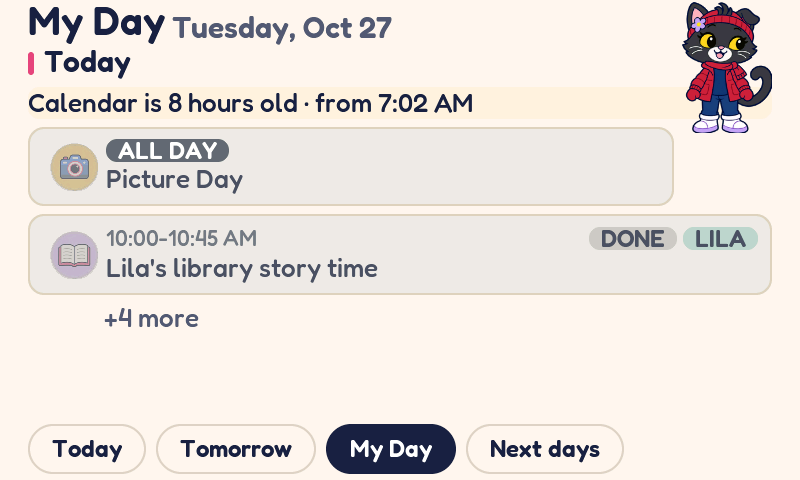
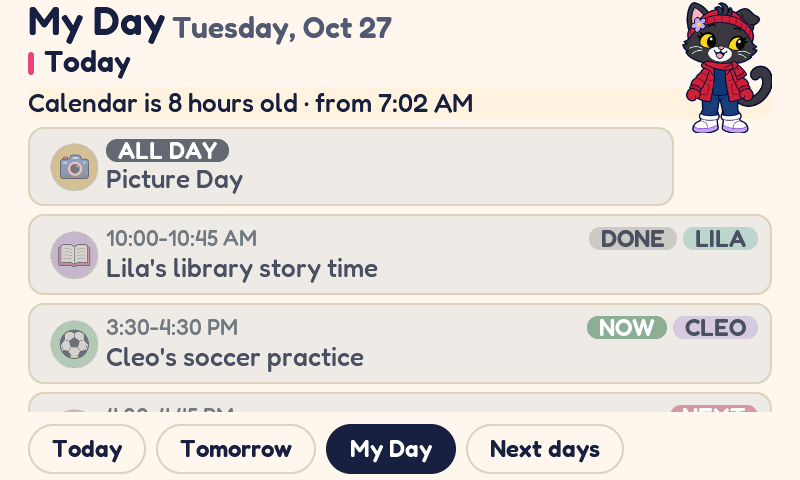
iter-37: sim gate meets the scrolling list (clipped tab test, width-only containment in the scroller), scrolled stress render, checks updated

Changed region(s): [[0.0312, 0.625, 0.9688, 0.875]]

diff --git a/sim/check_renders.py b/sim/check_renders.py
@@ -1346,15 +1346,15 @@ def main():
     md = dump("40_myday")
     check(md["myday_state"] == "events",
           f"40_myday: populated state (myday_state={md['myday_state']})")
-    # Iter-35: the flex cards size to content, so the six-event
-    # fixture day no longer fits the list beside Pippa: three of
-    # today's cards show, the fourth and both of tomorrow's fold
-    # into the "+3 more" line (the row strings below still pin
-    # every event's text, folded or not).
-    check(md["myday_today_n"] == "3" and md["myday_tom_n"] == "0",
-          f"40_myday: 3 rows today, tomorrow folded ({md['myday_today_n']}/{md['myday_tom_n']})")
-    check(md["myday_more_today"] == "1" and md["myday_more_tom"] == "2",
-          f"40_myday: the fold counts 1 today, 2 tomorrow ({md['myday_more_today']}/{md['myday_more_tom']})")
+    # Iter-37: the list scrolls, so every pooled row has a card:
+    # all four of today's events and both of tomorrow's stand in
+    # the column (the viewport shows the first three and a clip
+    # of the fourth), and nothing folds away (the row strings
+    # below pin every event's text).
+    check(md["myday_today_n"] == "4" and md["myday_tom_n"] == "2",
+          f"40_myday: 4 rows today, 2 tomorrow, all with cards ({md['myday_today_n']}/{md['myday_tom_n']})")
+    check(md["myday_more_today"] == "0" and md["myday_more_tom"] == "0",
+          f"40_myday: no row folds, the pool holds every row ({md['myday_more_today']}/{md['myday_more_tom']})")
     # Iter-15: the time column carries ranges (pickup time is half
     # the point) and all-day events read ALL DAY (the navy pill).
     check(md["myday_today0"] == "ALL DAY|Picture Day|",
@@ -1396,8 +1396,8 @@ def main():
           f"40_myday: LILA and CLEO name tags across the page ({md['myday_nametags']!r})")
     check(md["myday_dimmed"] == "",
           f"40_myday: no past rows dimmed in the morning ({md['myday_dimmed']!r})")
-    check(md["myday_icons"] == "camera,book,soccer",
-          f"40_myday: category icons of the visible rows ({md['myday_icons']})")
+    check(md["myday_icons"] == "camera,book,soccer,videocall,cupcake,piano",
+          f"40_myday: category icons of every row ({md['myday_icons']})")
     # Iter-35: the half-card form is gone (one card style
     # everywhere); the dump key stays and reads 0.
     check(md["myday_half"] == "0",
@@ -1425,17 +1425,17 @@ def main():
     # at 3:45), NEXT on the Grandma call; the never state has no
     # freshness footer at all, its body copy carries it.
     md43 = dump("43_myday_stale")
-    check(md43["myday_state"] == "events" and md43["myday_today_n"] == "2" and md43["myday_tom_n"] == "0",
-          f"43_myday_stale: populated data under the stale stamp, the banner eats a row (state={md43['myday_state']}, {md43['myday_today_n']}/{md43['myday_tom_n']})")
-    check(md43["myday_more_today"] == "2" and md43["myday_more_tom"] == "2",
-          f"43_myday_stale: the fold counts 2 and 2 under the banner ({md43['myday_more_today']}/{md43['myday_more_tom']})")
+    check(md43["myday_state"] == "events" and md43["myday_today_n"] == "4" and md43["myday_tom_n"] == "2",
+          f"43_myday_stale: populated data under the stale stamp, the banner pushes the rows down the scroll (state={md43['myday_state']}, {md43['myday_today_n']}/{md43['myday_tom_n']})")
+    check(md43["myday_more_today"] == "0" and md43["myday_more_tom"] == "0",
+          f"43_myday_stale: no row folds under the banner ({md43['myday_more_today']}/{md43['myday_more_tom']})")
     check(md43["myday_fresh"] == "Calendar is 8 hours old · from 7:02 AM",
           f"43_myday_stale: freshness line in its stale form, age spelled out ({md43['myday_fresh']})")
     check(md43["myday_nextup"] == "Video call with Grandma" and md43["myday_nowup"] == "Cleo's soccer practice"
           and md43["myday_done"] == "Lila's library story time" and md43["myday_dimmed"] == "Lila's library story time",
           f"43_myday_stale: Grandma next, soccer now, story time done (nextup={md43['myday_nextup']!r}, nowup={md43['myday_nowup']!r}, done={md43['myday_done']!r})")
-    check(md43["myday_icons"] == "camera,book" and md43["myday_half"] == "0",
-          f"43_myday_stale: the visible rows' icons under the stale stamp (icons={md43['myday_icons']}, half={md43['myday_half']})")
+    check(md43["myday_icons"] == "camera,book,soccer,videocall,cupcake,piano" and md43["myday_half"] == "0",
+          f"43_myday_stale: every row's icons under the stale stamp (icons={md43['myday_icons']}, half={md43['myday_half']})")
     md44 = dump("44_myday_never")
     check(md44["myday_state"] == "never",
           f"44_myday_never: configured but never loaded state (state={md44['myday_state']})")
@@ -1453,8 +1453,8 @@ def main():
           f"45_myday_late: story time DONE and dimmed as past (done={md45['myday_done']!r})")
     check(md45["myday_tom1"] == "4:00-4:30 PM|Cleo's piano lesson|",
           f"45_myday_late: tomorrow rows unchanged in the afternoon ({md45['myday_tom1']})")
-    check(md45["myday_icons"] == "camera,book,soccer" and md45["myday_half"] == "0",
-          f"45_myday_late: the visible rows' icons in the afternoon (icons={md45['myday_icons']}, half={md45['myday_half']})")
+    check(md45["myday_icons"] == "camera,book,soccer,videocall,cupcake,piano" and md45["myday_half"] == "0",
+          f"45_myday_late: every row's icons in the afternoon (icons={md45['myday_icons']}, half={md45['myday_half']})")
     # Iter-29: the fall-back weekend (clock Sat Oct 31 2026, 8:05 AM;
     # tomorrow is Sun Nov 1, when America/New_York repeats 1 AM).
     # The fixture's TZID times resolve through its VTIMEZONE block,
@@ -1462,10 +1462,10 @@ def main():
     # a fixed -4 reading would put the pancakes at 4:30 AM, a UTC
     # reading at 8:30 AM, and the owl walk on the wrong hour too.
     md46 = dump("46_myday_dst")
-    check(md46["myday_state"] == "events" and md46["myday_today_n"] == "2" and md46["myday_tom_n"] == "0",
-          f"46_myday_dst: 2 rows today, tomorrow's 3 folded over the fall-back (state={md46['myday_state']}, {md46['myday_today_n']}/{md46['myday_tom_n']})")
-    check(md46["myday_more_tom"] == "3" and md46["myday_icons"] == "star,videocall",
-          f"46_myday_dst: the fold counts tomorrow's 3 (more={md46['myday_more_tom']}, icons={md46['myday_icons']})")
+    check(md46["myday_state"] == "events" and md46["myday_today_n"] == "2" and md46["myday_tom_n"] == "3",
+          f"46_myday_dst: 2 rows today, tomorrow's 3 all have cards over the fall-back (state={md46['myday_state']}, {md46['myday_today_n']}/{md46['myday_tom_n']})")
+    check(md46["myday_more_tom"] == "0" and md46["myday_icons"] == "star,videocall,star,star,star",
+          f"46_myday_dst: no row folds, every row's icons (more={md46['myday_more_tom']}, icons={md46['myday_icons']})")
     check(md46["myday_today0"] == "10:00-11:00 AM|Pumpkin patch visit|",
           f"46_myday_dst: today's first row (today0={md46['myday_today0']!r})")
     check(md46["myday_today1"] == "1:00-1:45 PM|Video call with Grandpa|",
@@ -1485,13 +1485,13 @@ def main():
     # Iter-35: the stress and evening fixtures. Stress (9:20 AM):
     # six events today (an all-day, a DONE naming both girls with
     # a long street address in the feed, a NOW, a NEXT with a
-    # 38-char title), one tomorrow. Iter-36: the shorter
-    # full-width cards fit three, the rest fold.
+    # 38-char title), one tomorrow. Iter-37: all seven cards
+    # stand in the scrolling column.
     md47 = dump("47_myday_stress")
-    check(md47["myday_state"] == "events" and md47["myday_today_n"] == "3" and md47["myday_tom_n"] == "0",
-          f"47_myday_stress: populated, 3 cards shown of 7 (state={md47['myday_state']}, {md47['myday_today_n']}/{md47['myday_tom_n']})")
-    check(md47["myday_more_today"] == "3" and md47["myday_more_tom"] == "1",
-          f"47_myday_stress: the fold counts 3 today, 1 tomorrow ({md47['myday_more_today']}/{md47['myday_more_tom']})")
+    check(md47["myday_state"] == "events" and md47["myday_today_n"] == "6" and md47["myday_tom_n"] == "1",
+          f"47_myday_stress: populated, all 7 cards stand (state={md47['myday_state']}, {md47['myday_today_n']}/{md47['myday_tom_n']})")
+    check(md47["myday_more_today"] == "0" and md47["myday_more_tom"] == "0",
+          f"47_myday_stress: no row folds ({md47['myday_more_today']}/{md47['myday_more_tom']})")
     check(md47["myday_today0"] == "ALL DAY|Autumn classroom photo retake day|",
           f"47_myday_stress: the all-day row ({md47['myday_today0']})")
     check(md47["myday_today1"] == "7:30-8:15 AM|Cleo and Lila dentist checkup and cleaning|",
@@ -1502,16 +1502,16 @@ def main():
           and md47["myday_nowup"] == "Lila's occupational therapy evaluation"
           and md47["myday_nextup"] == "Cleo's reading buddy celebration party",
           f"47_myday_stress: DONE, NOW and NEXT at 9:20 (done={md47['myday_done']!r}, now={md47['myday_nowup']!r}, next={md47['myday_nextup']!r})")
-    check(md47["myday_icons"] == "camera,tooth,star",
-          f"47_myday_stress: the visible rows' icons ({md47['myday_icons']})")
+    check(md47["myday_icons"] == "camera,tooth,star,palette,star,piano,book",
+          f"47_myday_stress: every row's icons ({md47['myday_icons']})")
     # Evening (6:30 PM): three of today's events are finished and
-    # fold into the done line; tonight's call and one of
-    # tomorrow's two events show.
+    # fold into the done line; tonight's call and both of
+    # tomorrow's events have cards.
     md48 = dump("48_myday_evening")
     check(md48["myday_state"] == "events" and md48["myday_done_line"] == "3 done today",
           f"48_myday_evening: the evening collapse line (done_line={md48['myday_done_line']!r})")
-    check(md48["myday_today_n"] == "1" and md48["myday_tom_n"] == "1" and md48["myday_more_tom"] == "1",
-          f"48_myday_evening: tonight's call and one tomorrow row show (today={md48['myday_today_n']}, tom={md48['myday_tom_n']}, more_tom={md48['myday_more_tom']})")
+    check(md48["myday_today_n"] == "1" and md48["myday_tom_n"] == "2" and md48["myday_more_tom"] == "0",
+          f"48_myday_evening: tonight's call and both tomorrow rows stand (today={md48['myday_today_n']}, tom={md48['myday_tom_n']}, more_tom={md48['myday_more_tom']})")
     check(md48["myday_today0"] == "7:00-7:45 PM|Video call with Grandma|"
           and md48["myday_nextup"] == "Video call with Grandma",
           f"48_myday_evening: the call is tonight's row and carries NEXT ({md48['myday_today0']})")
@@ -1694,7 +1694,8 @@ def main():
     # the sim (ui_test_layout_check) now carries the structural
     # proof, so these checks pin the new design's visible facts:
     # one white bordered card style, pills on line 1 only, the
-    # fold line inside the list, and the DONE row's legibility.
+    # fourth card clipped at the list's edge, and the DONE
+    # row's legibility.
     img47 = Image.open(os.path.join(OUT, "47_myday_stress.png"))
     img48 = Image.open(os.path.join(OUT, "48_myday_evening.png"))
 
@@ -1756,11 +1757,12 @@ def main():
         rows = ink_rows(img, zone, is_saturated)
         check(40 <= len(rows) <= 52, f"40_myday: medallion stands 48 px tall, {what} ({len(rows)} saturated rows; the disc's pale rim rows are not saturated)")
 
-    # The fold line lives inside the list: its ink is present
-    # above the list's bottom edge, and the 12 px band between
-    # the list and the tab row stays empty.
-    frac = non_bg_fraction(img, (28, 352, 240, 384))
-    check(frac > 0.005, f"40_myday: the '+3 more' line inks inside the list ({frac:.1%} non-background, need > 0.5%)")
+    # Iter-37: no fold line any more. The fourth card runs to
+    # the list's bottom edge and is clipped by it (its white
+    # interior fills the list's last band), and the 12 px band
+    # between the list and the tab row stays empty.
+    frac = count_where(img, (150, 395, 700, 410), is_white) / ((700 - 150) * (410 - 395))
+    check(frac > 0.75, f"40_myday: the fourth card's interior reaches the list's bottom edge ({frac:.1%} white, need > 75%)")
     n = count_where(img, (28, 413, 592, 423), is_full_ink)
     check(n == 0, f"40_myday: nothing inks the band above the tab row ({n} px, need 0)")
 
@@ -1784,6 +1786,28 @@ def main():
     check(n == 0, f"47_myday_stress: no second line under the dentist title ({n} px, need 0)")
     frac = non_bg_fraction(img48, (28, 116, 300, 150))
     check(frac > 0.01, f"48_myday_evening: the '3 done today' line inks ({frac:.1%} non-background, need > 1%)")
+
+    # Iter-37: the scrolled stress render. Same populate as 47
+    # (scrolling changes no words, so the dump matches), with
+    # the list scrolled to its bottom: the last card (tomorrow's
+    # book fair) stands fully inside the viewport, its interior
+    # white down to the list's bottom edge, its title inked,
+    # and the band above the tab row stays empty.
+    md47c = dump("47c_myday_stress_scrolled")
+    check(md47c["myday_today_n"] == "6" and md47c["myday_tom_n"] == "1"
+          and md47c["myday_more_today"] == "0" and md47c["myday_more_tom"] == "0",
+          f"47c_myday_stress_scrolled: the same seven cards as 47 (today={md47c['myday_today_n']}, tom={md47c['myday_tom_n']})")
+    check(md47c["myday_tom0"] == "8:30-9:15 AM|Lila's book fair preview morning|",
+          f"47c_myday_stress_scrolled: the last card is tomorrow's book fair ({md47c['myday_tom0']})")
+    check(sha("47c_myday_stress_scrolled.png") != sha("47_myday_stress.png"),
+          "47c_myday_stress_scrolled differs from 47_myday_stress (the list scrolled)")
+    img47c = Image.open(os.path.join(OUT, "47c_myday_stress_scrolled.png"))
+    frac = count_where(img47c, (200, 392, 700, 408), is_white) / ((700 - 200) * (408 - 392))
+    check(frac > 0.9, f"47c_myday_stress_scrolled: the last card's interior fills the list's bottom band ({frac:.1%} white, need > 90%)")
+    n = count_where(img47c, (106, 340, 700, 390), is_full_ink)
+    check(n > 200, f"47c_myday_stress_scrolled: the last card's title inks ({n} px, need > 200)")
+    n = count_where(img47c, (28, 413, 592, 423), is_full_ink)
+    check(n == 0, f"47c_myday_stress_scrolled: nothing inks the band above the tab row ({n} px, need 0)")
 
     # Fresh "Updated" rides the tab-bar row at the right, one
     # line of small ink clear of the last tab pill.

diff --git a/sim/sim_main.c b/sim/sim_main.c
@@ -1068,6 +1068,17 @@ int main(int argc, char **argv)
     ui_test_outline(false);
     pump(10);
 
+    /* Iter-37: the same stress state scrolled to the very
+     * bottom of the now-scrollable list. The stress fixture's
+     * seven cards overflow the viewport; this render proves
+     * the last one (tomorrow's book fair) is reachable by
+     * scrolling and lands fully inside the list, clear of the
+     * tab bar. save() runs the layout gate on the scrolled
+     * state too. */
+    ui_test_scroll_myday_bottom();
+    save(out, "47c_myday_stress_scrolled");
+    dump(out, "47c_myday_stress_scrolled");
+
     /* Iter-35: a LOCAL-ONLY real-data fixture, gated on an env
      * var so `make shots` never sees it. The file named by
      * WB_SIM_CAL_FILE is an iCal export kept in the gitignored
